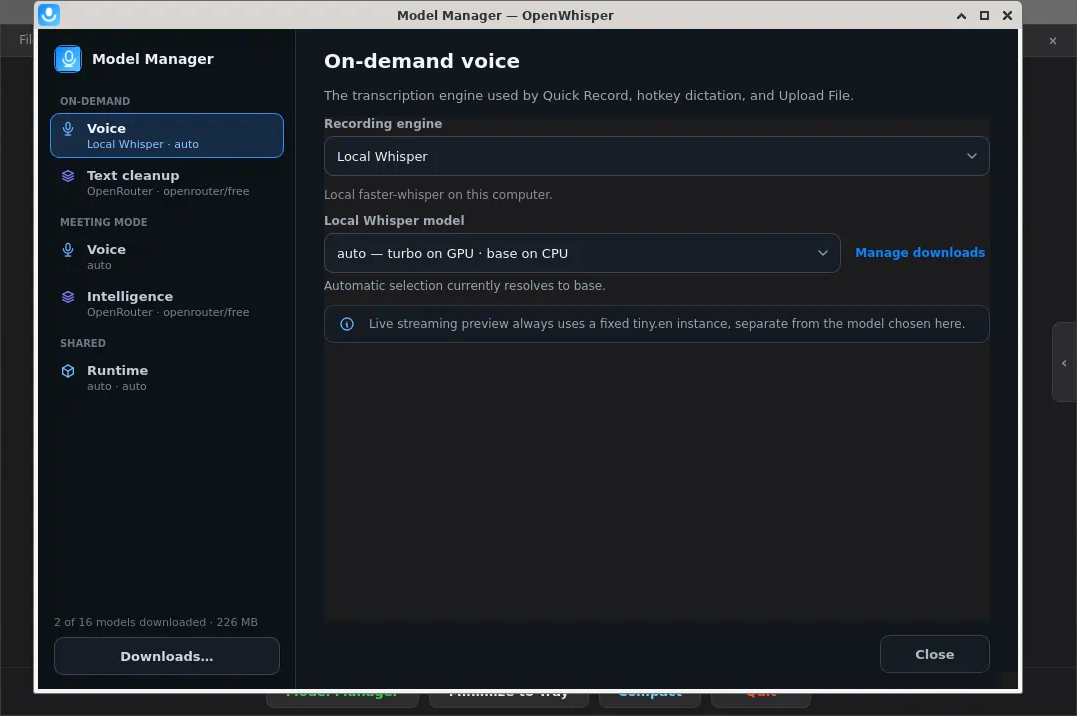
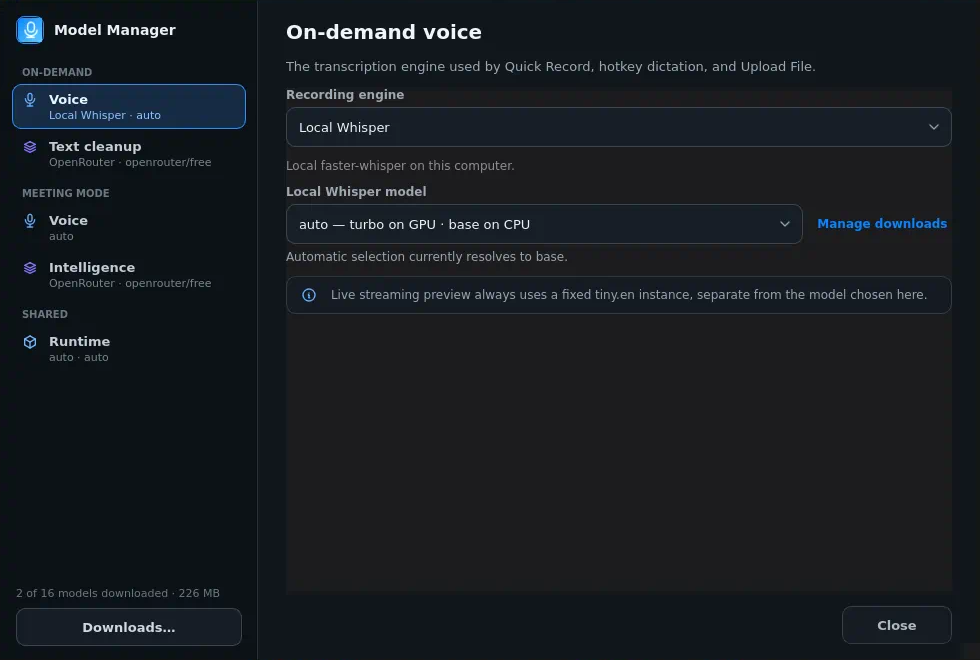
update: enhance README image attributes for better display and responsiveness
- Adjusted image width attributes in the README for improved layout across devices.
- Updated binary screenshots to reflect recent changes in the application interface.

Changed region(s): [[0.0, 0.0, 1.0, 1.0], [0.0, 0.9697, 0.0306, 1.0]]

diff --git a/README.md b/README.md
@@ -6,23 +6,23 @@ A cross-platform desktop app (Windows, macOS, Linux) for recording audio and tra
 
 
 <p align="center">
-  <img alt="OpenWhisper Quick Record" src="docs/screenshots/01-quick-record-idle.png" />
+  <img width="720" alt="OpenWhisper Quick Record" src="docs/screenshots/01-quick-record-idle.png" />
 </p>
 
 <p align="center">
-  <img alt="Waveform overlay cycling through recording, transcribing, copied, and live streaming preview" src="docs/screenshots/overlay-states.gif" />
+  <img width="450" alt="Waveform overlay cycling through recording, transcribing, copied, and live streaming preview" src="docs/screenshots/overlay-states.gif" />
 </p>
 
 <p align="center">
-  <img alt="Model Manager: assign on-demand voice, text cleanup, and meeting models" src="docs/screenshots/01-model-manager-voice.png" />
+  <img width="735" alt="Model Manager: assign on-demand voice, text cleanup, and meeting models" src="docs/screenshots/01-model-manager-voice.png" />
 </p>
 
 <p align="center">
-  <img alt="Downloads: Whisper catalog and per-model technical profile" src="docs/screenshots/06-downloads-model-profile.png" />
+  <img width="960" alt="Downloads: Whisper catalog and per-model technical profile" src="docs/screenshots/06-downloads-model-profile.png" />
 </p>
 
 <p align="center">
-  <img alt="Settings: General destination with auto-paste, clipboard, tray, and updates" src="docs/screenshots/01-general.png" />
+  <img width="720" alt="Settings: General destination with auto-paste, clipboard, tray, and updates" src="docs/screenshots/01-general.png" />
 </p>
 
 
